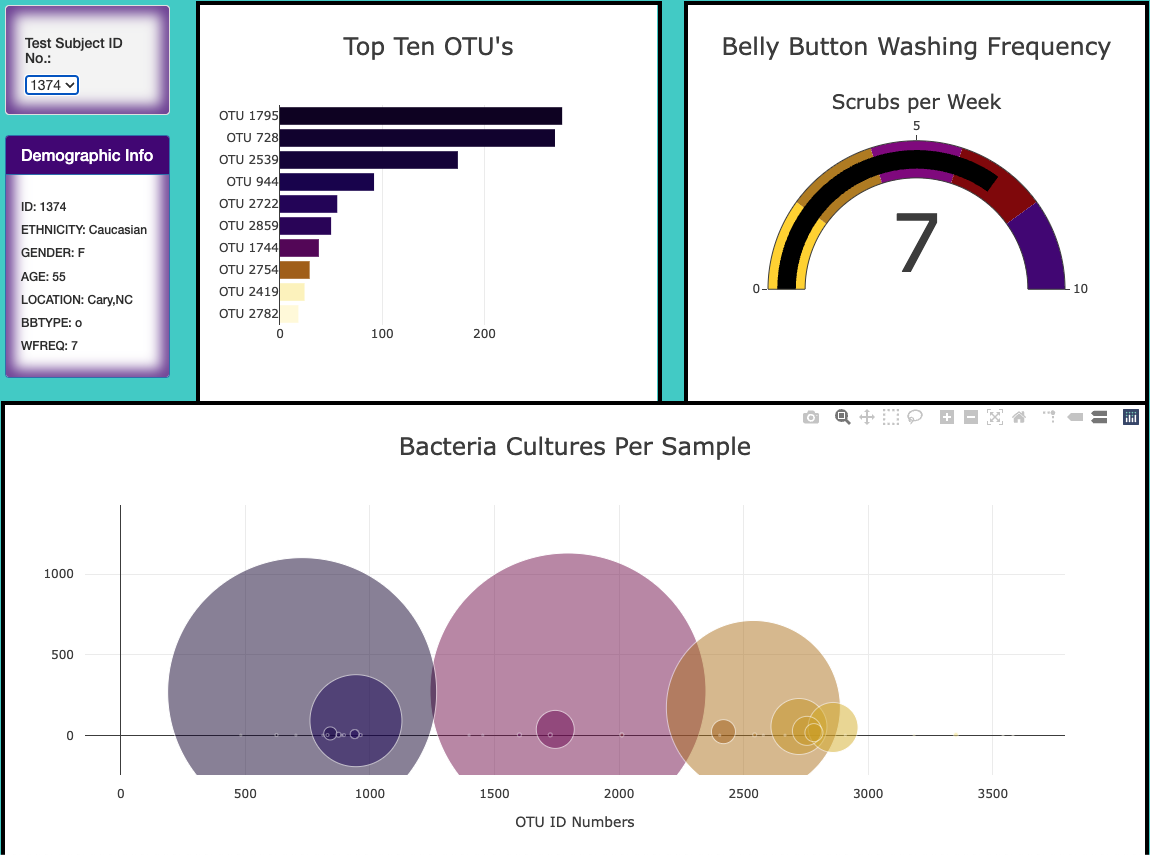
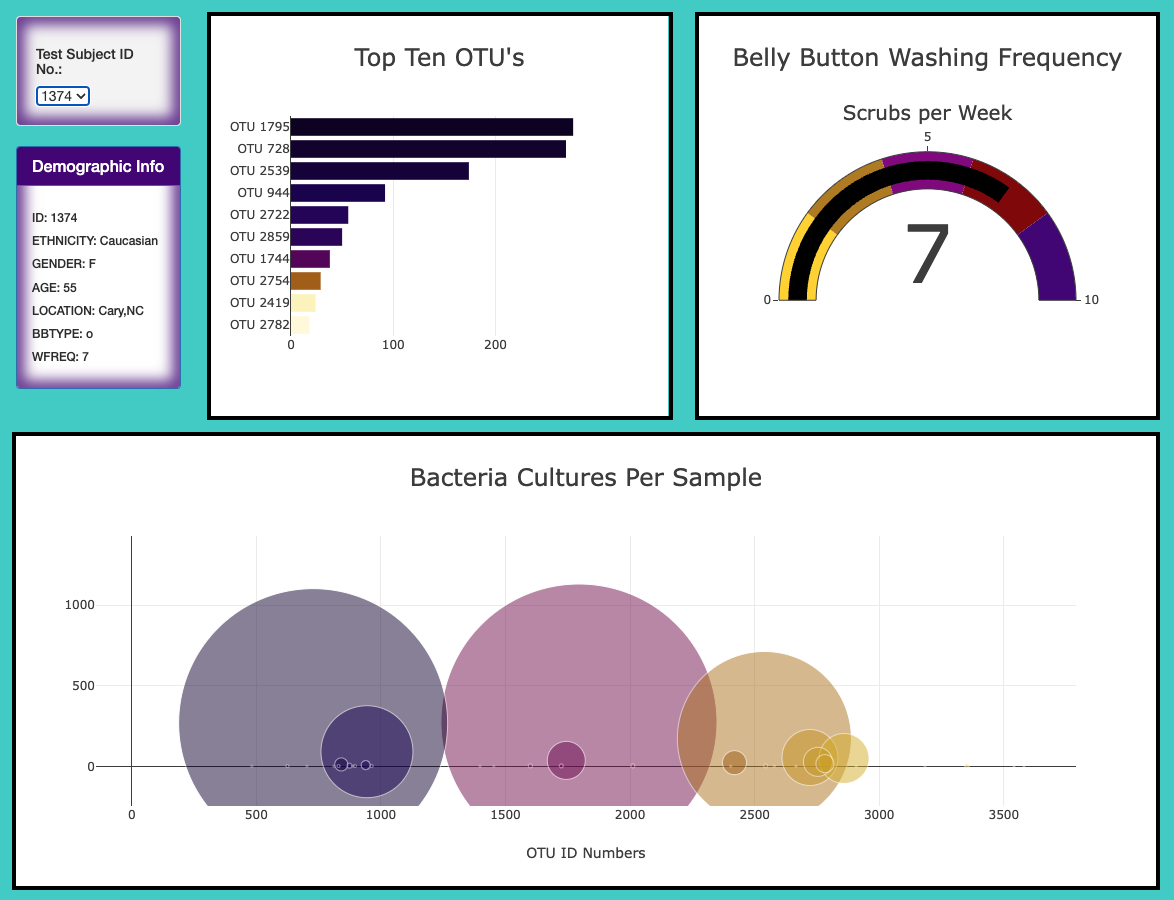
commit11

diff --git a/charts.js b/charts.js
@@ -128,6 +128,7 @@ function buildCharts(sample) {
     }];
     // Deliverable 2: 2. Create the layout for the bubble chart.
     var bubbleLayout = {
+      margin: "5px",
       title: {
         text: "Bacteria Cultures Per Sample", 
         display: true, 
@@ -136,8 +137,6 @@ function buildCharts(sample) {
           weight:"bold" }
       },
       xaxis: {title: "OTU ID Numbers"},
-      margin: {
-        pad: 10}
       };
     // Deliverable 2: 3. Use Plotly to plot the data with the layout.
     Plotly.newPlot("bubble", bubbleData, bubbleLayout);

diff --git a/index.html b/index.html
@@ -8,6 +8,7 @@
   <title>Belly Button Biodiversity</title>
   <link rel="stylesheet" href="https://maxcdn.bootstrapcdn.com/bootstrap/3.3.7/css/bootstrap.min.css">
   <link rel="stylesheet" href="style.css"/>
+  <style> p{margin: 20px;}</style>
 </head>
 
 <body>
@@ -41,7 +42,9 @@
     </div>
     <div class="row">
       <div class="col-md-12">
-        <div id="bubble"></div>
+        <p>
+          <div id="bubble"></div>
+        </p>
       </div>
     </div>
   </div>
